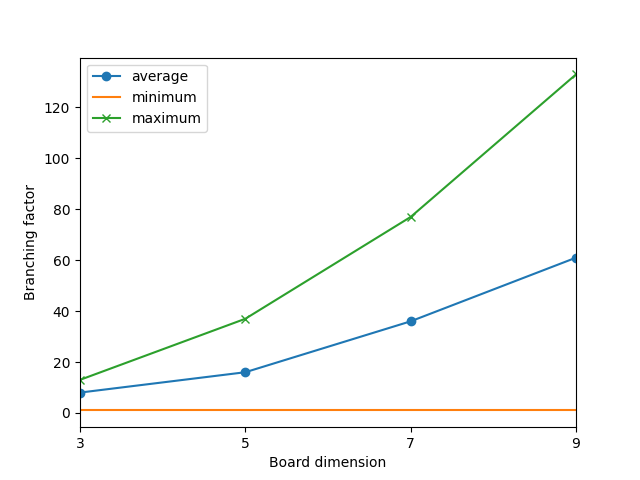
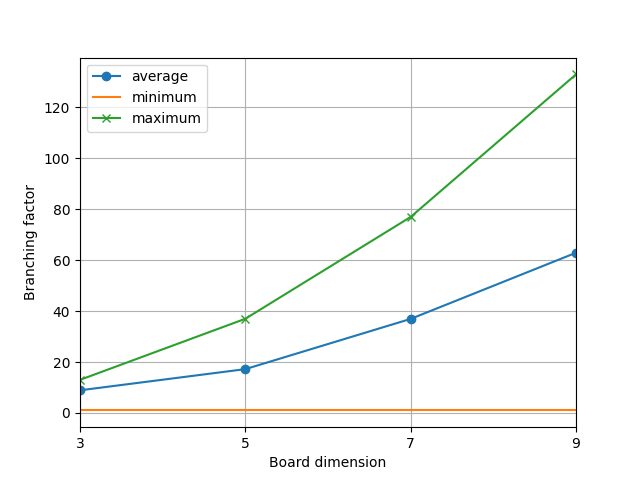
use precise values for branching factor

diff --git a/Quoridor/Thesis/en/scripts/branching_factor.py b/Quoridor/Thesis/en/scripts/branching_factor.py
@@ -10,13 +10,13 @@ def run_subprocess(dim, s1, s2, simulations):
         "-depth=1",
         f"-s2={s2}",
         "-b",
-        "-verbose=true",
+        "-verbose=false",
         f"-numsim={simulations}",
         f"-dimension={dim}"
     ]
 
     result = subprocess.run(cmd, cwd="../../../Quoridor.ConsoleApp/", capture_output=True)
-    branching_factor = result.stdout.splitlines()[-1].split()[-1].decode("utf-8")
+    branching_factor = float(result.stdout.splitlines()[-1].split()[-1].decode("utf-8"))
     return dim, branching_factor
 
 def save_fig(dim_map):
@@ -24,7 +24,6 @@ def save_fig(dim_map):
     ys = [dim_map[i] for i in xs]
     min_bfs = [1]*len(xs)
     max_bfs = [(5 + 2 * (i - 1)**2) for i in xs]
-    print(max_bfs)
     plt.xticks(xs)
     plt.xlim(min(xs), max(xs))
     plt.xlabel("Board dimension")
@@ -33,8 +32,9 @@ def save_fig(dim_map):
     plt.plot(xs, min_bfs, label="minimum")
     plt.plot(xs, max_bfs, marker='x', label="maximum")
     plt.legend()
+    plt.grid()
     plt.savefig("../../img/branching_factor.png")
-
+    plt.show()
 
 def main(args):
     dims_to_examine = [3, 5, 7, 9]
@@ -47,6 +47,9 @@ def main(args):
 
         for dim, branching_factor in result:
             dim_map[dim] = branching_factor
+            print(f"{dim}x{dim} board: {branching_factor}")
+
+    print(dim_map)
 
     save_fig(dim_map)
 
@@ -56,6 +59,6 @@ if __name__ == "__main__":
     parser.add_argument('--s2', type=str, default="semirandom", help='Strategy for player 2')
     parser.add_argument('--simulations', type=int, default=1000, help='Number of simulations')
     args = parser.parse_args()
-    #{3:8, 5:16, 7:36, 9:61}
+    #{3: 8.897959, 5: 17.214174, 7: 36.948112, 9: 62.93257}
 
     main(args)

diff --git a/Quoridor/Quoridor.ConsoleApp/GameManager/ConsoleGameManager.cs b/Quoridor/Quoridor.ConsoleApp/GameManager/ConsoleGameManager.cs
@@ -1,5 +1,6 @@
 using System;
 using System.Linq;
+using System.Globalization;
 
 using Quoridor.Core;
 using Quoridor.Core.Game;
@@ -99,8 +100,8 @@ namespace Quoridor.ConsoleApp.GameManager
             }
             if (_settings.BranchingFactor)
             {
-                var totalAvg = (int)_totalAverageBranchingFactor / _settings.NumberOfSimulations;
-                _settings.OutputDest.WriteLine(@$"Average branching factor : {totalAvg}");
+                var totalAvg = _totalAverageBranchingFactor / _settings.NumberOfSimulations;
+                _settings.OutputDest.WriteLine(@$"Average branching factor : {totalAvg.ToString(CultureInfo.InvariantCulture)}");
             }
         }
 
@@ -130,7 +131,7 @@ namespace Quoridor.ConsoleApp.GameManager
         {
             var totalGameStates = winningStrategy.SingleGameStates + losingStrategy.SingleGameStates;
             var totalGameMoves = winningStrategy.SingleGameMoves + losingStrategy.SingleGameMoves;
-            var branchingFactor = totalGameStates / totalGameMoves;
+            var branchingFactor = (float)totalGameStates / totalGameMoves;
             _totalAverageBranchingFactor += branchingFactor;
         }
 
